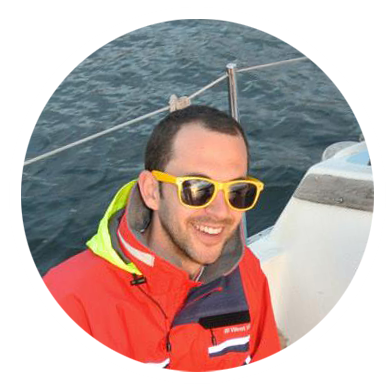
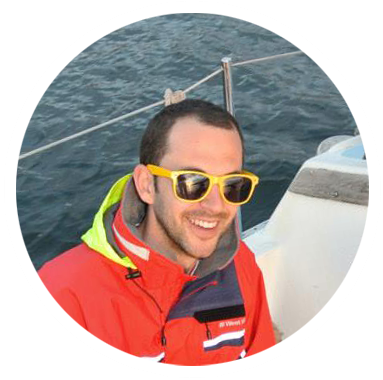
writing, tweaking footer

diff --git a/pelican-bootstrap3/templates/includes/footer.html b/pelican-bootstrap3/templates/includes/footer.html
@@ -4,13 +4,13 @@
       <div class="row">
            <div class="col-sm-4">
                <div id="RecentComments" class="dsq-widget">
-                <h3>Recent Comments</h3>
+                <h3 style="margin-bottom:0.5px;">Recent Comments</h3>
                 <script type="text/javascript" src="http://{{ DISQUS_SHORTNAME }}.disqus.com/recent_comments_widget.js?num_items=5&hide_mods=0&hide_avatars=0&avatar_size=32&excerpt_length=100"></script>
                </div>
 
            </div>
            <div class="col-sm-4">
-               <h3>Websites I Like</h3>
+               <h3 style="margin-bottom:0.5px;">Websites I Like</h3>
                </br>
                <ul style="list-style-type:circle">
                 {% for name, link in LINKS %}

diff --git a/pelican-bootstrap3/templates/includes/aboutme.html b/pelican-bootstrap3/templates/includes/aboutme.html
@@ -1,8 +1,8 @@
 <div id="aboutme" align="center">
-	<h3>About {{ AUTHOR }}</h3><br/>
+	<h3 style="margin-bottom:0.5px;">About {{ AUTHOR }}</h3><br/>
     {% if AVATAR %}
         <p>
-            <img width="70%" class="img-thumbnail" src="{{ AVATAR }}"/>
+            <img width="60%" class="img-thumbnail" src="{{ AVATAR }}"/>
         </p>
     {% endif %}
     <p> 

diff --git a/content/2 - Baseball Team Payroll.md b/content/2 - Baseball Team Payroll.md
@@ -52,7 +52,7 @@ Let’s adjust our hypotheses – it’s not JUST money that wins baseball games
 
 Salary Power has increased slightly and the R values have increased considerably, which makes intuitive sense. We might reasonably conclude that payroll, when kept high over time, has a significant effect on the performance of a team, with Salary Power in the neighborhood of 5 wins per MAD (standard deviation). This means you could expect a team like the Yankees who outspends the median by 2 MAD to consistently win 10 more games than league average, or 91 games a year. 91 games pretty much assures you a spot in the playoffs nowadays...talk about nontrivial.
 
-## The Competitive Balance Problem and MLB Luxury Tax
+## The Competitive Balance Problem and MLB Revenue Sharing
 
 If you were paying close attention to the previous graph, you noticed that Salary Power has changed over the decades, peaking in the ’94-’03 era at 7+ wins/MAD. Honestly, if you’d put a gun to my head and made me guess what 10-year period would show the most powerful monetary effects, I would have guessed essentially these 10 years. Here’s why. MLB payroll has plenty to do with the owners' pockets, but even MORE to do with the team's revenue. If you’re a big market team then sure, you’ll get better attendance and more purchased merchandise. But beginning in 1990, baseball saw the first truly, insanely lucrative TV deals being to pop up in places like New York and Chicago. With their newfound cash prospects, some teams were suddenly able to outspend their opponents by ridiculous margins. 
 
@@ -61,11 +61,11 @@ To quote a more reputable source than I:
 
 Talk as much as you want to about George Steinbrenner, but the YES Network might be a bigger reason why this generation's Yankees are who they are.
 
-We can better investigate the changing influence of money in baseball by looking at Salary Power from year to year.
+We can better investigate the changing influence of money in baseball by looking at `Salary Power` from year to year.
 
 ![Salary Power over the years](/images/baseball/Slope_plot_of_win_to_MAD_ratio.png)
 
-Charted above you’ll see Salary Power plotted annually and as a 5-year running average. The running average in particular paints a consistent story, which I will narrate myself:
+Charted above you’ll see Salary Power plotted annually and as a 5-year running average. The data here is pretty damning. Since we have available data, Salary Power has has been well above zero nearly every year. From 1995 to 2011, it never went below 3. As we saw before, the late 90's and early 00's had incredibly high Salary Power numbers, at one point reaching 9 (!!) wins/MAD. The Salary Power running average in particular (in black) paints a consistent story, which I will narrate myself:
 
 <_ahem_\>
 
@@ -73,22 +73,25 @@ When Baseball transtitioned to the free agent model in 1976, some teams jumped o
 
 Then came 1990. TV contracts began to develop into insanely lucrative deals. But unlike before, there were haves and have-nots, mostly dependent on the size of the market. The competitive balance began to unbalance again, peaking around the millennium. Not coincidentally, around this time the Commissioner’s office was getting inundated with complaints. In fact, forget the commissioner’s office – the US SENATE was getting inundated with complaints (http://roadsidephotos.sabr.org/baseball/00-4compbal.htm). Bud Selig commissioned the Blue Ribbon Panel in 2000 (http://mlb.mlb.com/mlb/downloads/blue_ribbon.pdf) which basically concluded that Major League Baseball was in some serious trouble unless action was taken.[ref]I finally came across the blue ribbon study at the very end of writing this article. It makes me both proud and absolutely annoyed to find that the panel discovered many of the precise conclusions I present in this article AND used many of the precise same metrics to come to such a conclusion. I should have been born 15 years earlier.[/ref]   
 
-In direct response to the growing competitive balance problem, MLB instituted some changes. The biggest of which was the Luxury Tax. The Luxury Tax aimed to target the highest spending teams and provide a disincentive for outspending the median by so many standard deviations. The penalty was nontrivial – 17.5% of overages, then 30%, 40%, and 50% for each year over the line.[ref]If this paints you a picture, the entry for [Luxury Tax](http://en.wikipedia.org/wiki/Luxury_tax_(sports)) on Wikipedia has only one photo – a closeup of George Steinbrenner’s grumpy, wrinkly face.[/ref] To magnify the effect, these overage fees were in fact paid out to the poorest teams, to effectively redistribute TV revenue, if you think about it. If we reexamine our graph, you’ll notice a precipitous drop in value beginning roughly around 2003, coinciding with the institution of the Luxury Tax.
+In direct response to the growing competitive balance problem, MLB instituted some changes, the biggest of which was the Luxury Tax. The Luxury Tax aimed to target the highest spending teams and provide a disincentive for outspending the median by so many standard deviations. The penalty was nontrivial – 17.5% of overages, then 30%, 40%, and 50% for each year over the line.[ref]If this paints you a picture, the entry for [Luxury Tax](http://en.wikipedia.org/wiki/Luxury_tax_(sports)) on Wikipedia has only one photo – a closeup of George Steinbrenner’s grumpy, wrinkly face.[/ref] To magnify the effect, these overage fees were in fact paid out to the poorest teams, to effectively redistribute TV revenue, if you think about it. If we reexamine our graph, you’ll notice a precipitous drop in value beginning roughly around 2003, coinciding with the institution of the Luxury Tax.
 
-Today, the slope of the Win/Salary graph is back to around its 1990 levels. Bud Selig can count that as a big victory for the Luxury Tax and competitive balance. And you, as a discerning baseball fan, can rest assured that balance has been returned to the league. 
+Other revenue sharing methods were put into play around the same time, including equal distribution of national TV contracts. Today, Salary Power in baseball is back to around its 1990 levels. Bud Selig can count that as a big victory for revenue sharing and competitive balance. And you, as a discerning baseball fan, can rest assured that balance has been returned to the league. 
 
-**Right?**
+**...Right?**
+
+I'm not so sure.
 
 ## Competitive Balance and the Playoffs
 
-To see if competitive balance has returned, let's change our metrics a bit. First off, let's break teams into quartiles by annual payroll. Secondly, it's time to start looking at the postseason.
+First off, quick recap. We've gotten a pretty decent answer to our original question of "how much of an effect does money have on baseball?" We have one last step to take, but we've done well. Now, we're curious to ask "has competitive balance returned to the league since its 2000 peak?"
 
-We can debate money's effect on regular season success all we want, but teams play to win the World Series, not to win 91 games. Just ask Oakland A's fans.[ref]Or Atlanta Braves fans...sigh.[/ref] To answer our central question, "how much of an effect does money have on Baseball?" we should really be looking at what winning is all about - the postseason.
+To see if competitive balance has indeed improved, let's change our metrics a bit. First off, let's break teams into quartiles by annual payroll. Second, let's start looking at the postseason.
 
+We can debate money's effect on regular season success all we want, but teams play to win the World Series, not to win 91 games. Just ask Oakland A's fans.[ref]Or Atlanta Braves fans...sigh.[/ref] So, we should really be looking at what winning in baseball is all about - the postseason.
 
+Selig's Blue Ribbon Panel found in 1999 that poor teams were not flat out making the playoffs. They were not wrong. Examining the figure below, we see that from 1995-2003, a full 12.0% (14 of 117) teams in the bottom half of league payroll (Q4 and Q3) were making the playoffs. That is atrocious. In a completely balanced league, we'd see 50%. Basically the league is split into two leagues based on payroll, and you might as well just turn around and go home if you're team's on the wrong side.
 
-Selig's Blue Ribbon Panel found in 1999 that poor teams were not making the playoffs. See the graph below
-
+When we look at the same numbers from 2004-2013, we **do** see an improved picture - 16.7% (30 of 180). But is this picture 
 
 
 Table showing percentage chance of making playoffs since 1995
@@ -97,7 +100,7 @@ Let's think about the magnitude of that table for a minute. Let it sink in. In t
 
 Looking to the World Series only paints a worse picture. 
 
-Image of trips to world series by quartile
+of trips to world series by quartile
 
 And lastly, take a look at that table again. Of the 248 teams in the bottom half of baseball payrolls since 1995, how many have won the World Series? The answer?
 
